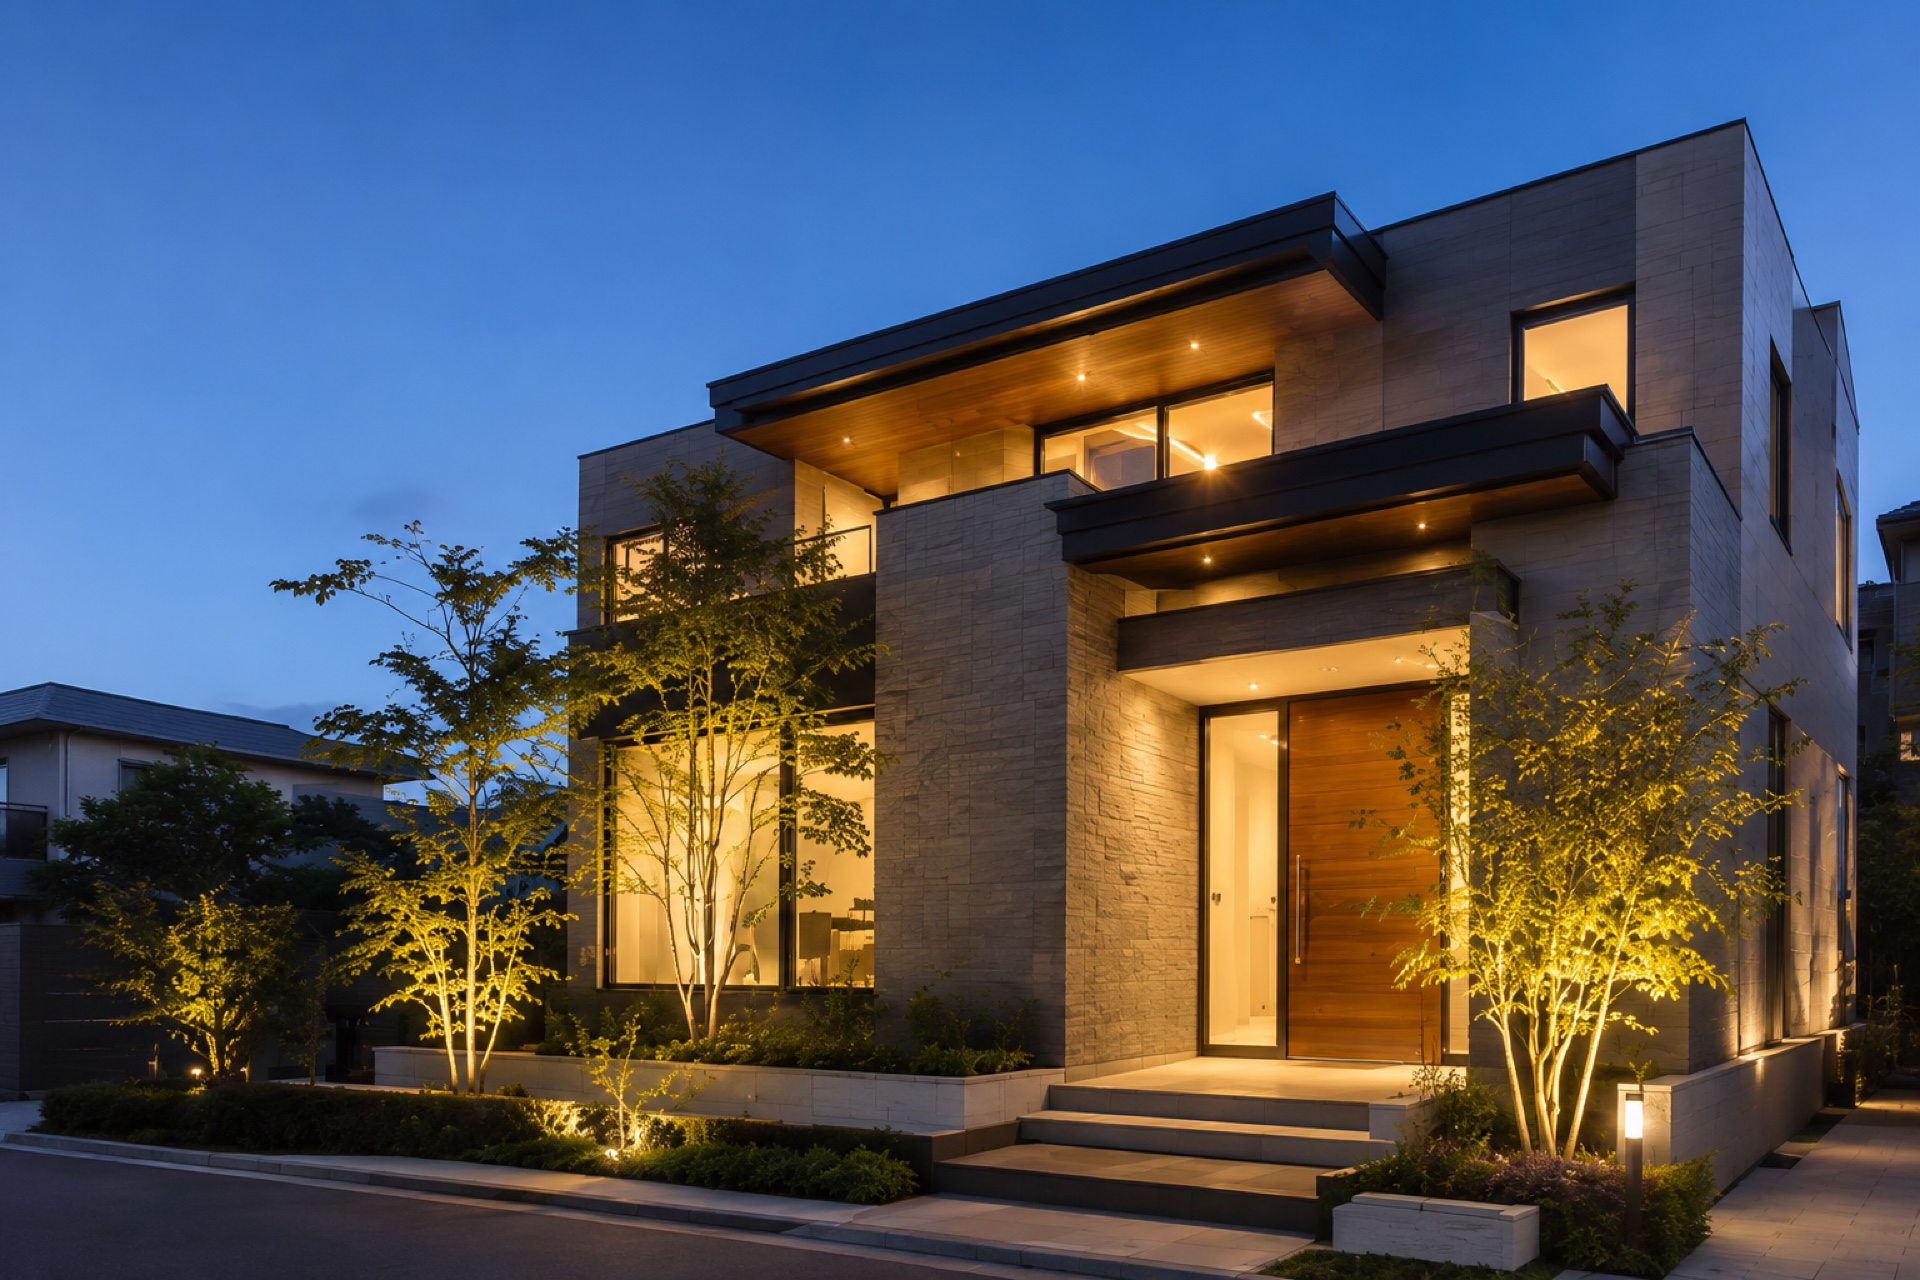
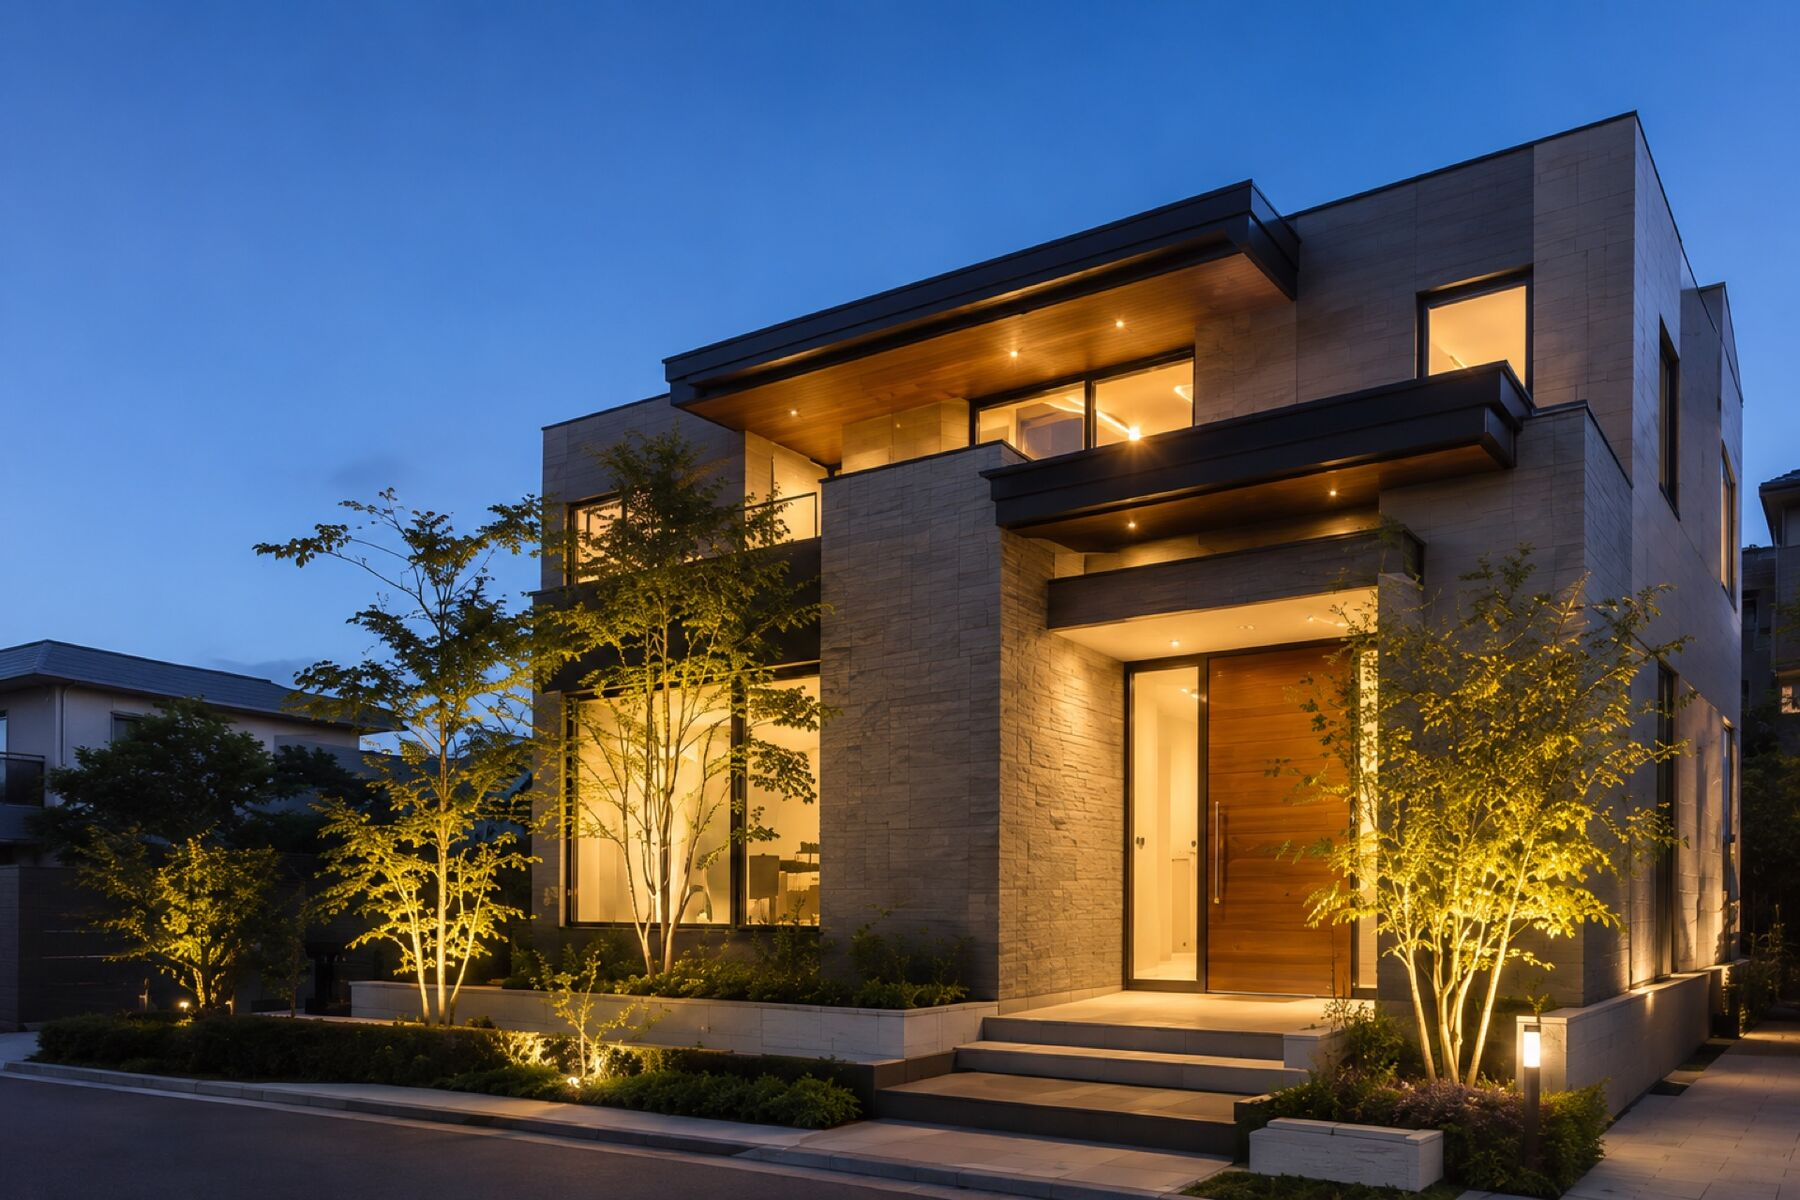
パフォーマンス最適化：Google Fonts(CJK)を表示文字だけにサブセット化＋画像をWebP化・再圧縮
- Google FontsのCSSがレンダーブロッキングでFCP/LCPを約20秒まで悪化させていた実測(Lighthouse)を確認。
  Shippori Mincho+Zen Kaku Gothic Newは無指定だと865個の@font-face(圧縮前805KB)を返す罠があり、
  &text=でこのページの表示文字だけに絞って68KB・10個まで削減。
- hero/svc/wk画像をpicture+WebP化、JPEGフォールバックも品質80で再圧縮（画像だけで計2.2MB→1MB弱）。

Changed region(s): [[0.2489, 0.7092, 0.28, 0.74]]

diff --git a/index.html b/index.html
@@ -36,7 +36,11 @@
 <meta name="twitter:image" content="https://promoters.co.jp/img/og.jpg">
 <link rel="preconnect" href="https://fonts.googleapis.com">
 <link rel="preconnect" href="https://fonts.gstatic.com" crossorigin>
-<link href="https://fonts.googleapis.com/css2?family=Shippori+Mincho:wght@500;600;700&family=Zen+Kaku+Gothic+New:wght@300;400;500;700&family=Cormorant+Garamond:wght@300;400;500&display=swap" rel="stylesheet">
+<!-- パフォーマンス：Google FontsのCJK(Shippori Mincho/Zen Kaku Gothic New)は無指定だと865個の@font-face(圧縮前805KB)を返しレンダーブロッキングでFCP/LCPが約20秒に悪化する実測あり。
+     &text=でこのページの表示文字だけに絞り68KB・10個の@font-faceまで削減(2026/7/27実測)。
+     本文に新しい日本語テキストを追加したら再生成すること（旧文字だけの絞り込みのままだと新しい文字だけシステムフォールバックフォントで表示される＝致命的ではないが見た目が揃わない）。
+     再生成手順：ブラウザでページを開き `document.body.innerText + [...document.querySelectorAll('[placeholder],[alt],option')].map(e=>e.getAttribute('placeholder')||e.getAttribute('alt')||e.textContent).join('')` で全表示文字を取得→重複除去→このURLの&text=以降をURLエンコードして差し替え -->
+<link href="https://fonts.googleapis.com/css2?family=Shippori+Mincho:wght@500;600;700&family=Zen+Kaku+Gothic+New:wght@300;400;500;700&family=Cormorant+Garamond:wght@300;400;500&display=swap&text=%25%26%2C-.%2F012345789%3A%40ABCDEFGHIJKLMNOPQRSTUVWXYZacdefghijklmnoprstuvxyz%C2%A9%C2%AE%C2%B7%C3%97%E2%80%93%E2%80%94%E2%80%BB%E2%86%92%E2%86%93%E3%80%81%E3%80%82%E3%80%85%E3%80%87%E3%80%8C%E3%80%8D%E3%80%92%E3%81%82%E3%81%84%E3%81%86%E3%81%88%E3%81%8A%E3%81%8B%E3%81%8C%E3%81%8D%E3%81%8E%E3%81%8F%E3%81%91%E3%81%92%E3%81%93%E3%81%94%E3%81%95%E3%81%97%E3%81%98%E3%81%99%E3%81%9A%E3%81%9B%E3%81%9C%E3%81%9D%E3%81%9E%E3%81%9F%E3%81%A0%E3%81%A1%E3%81%A3%E3%81%A4%E3%81%A5%E3%81%A6%E3%81%A7%E3%81%A8%E3%81%A9%E3%81%AA%E3%81%AB%E3%81%AD%E3%81%AE%E3%81%AF%E3%81%B0%E3%81%B3%E3%81%B5%E3%81%B6%E3%81%B8%E3%81%B9%E3%81%BE%E3%81%BF%E3%82%80%E3%82%81%E3%82%82%E3%82%84%E3%82%86%E3%82%88%E3%82%89%E3%82%8A%E3%82%8B%E3%82%8C%E3%82%8F%E3%82%92%E3%82%93%E3%82%A1%E3%82%A2%E3%82%A3%E3%82%A4%E3%82%A6%E3%82%A7%E3%82%A8%E3%82%A9%E3%82%AA%E3%82%AD%E3%82%AE%E3%82%AF%E3%82%B0%E3%82%B1%E3%82%B3%E3%82%B5%E3%82%B7%E3%82%B8%E3%82%B9%E3%82%BA%E3%82%BB%E3%82%BD%E3%82%BF%E3%83%80%E3%83%81%E3%83%83%E3%83%86%E3%83%87%E3%83%88%E3%83%89%E3%83%8A%E3%83%8B%E3%83%8D%E3%83%8F%E3%83%91%E3%83%93%E3%83%95%E3%83%96%E3%83%97%E3%83%99%E3%83%9C%E3%83%9D%E3%83%9E%E3%83%9F%E3%83%A0%E3%83%A1%E3%83%A2%E3%83%A3%E3%83%A5%E3%83%A6%E3%83%A9%E3%83%AA%E3%83%AB%E3%83%AC%E3%83%AD%E3%83%B3%E3%83%BB%E3%83%BC%E4%B8%80%E4%B8%81%E4%B8%87%E4%B8%89%E4%B8%8A%E4%B8%8D%E4%B8%8E%E4%B8%96%E4%B8%AD%E4%B8%BB%E4%BA%88%E4%BA%8B%E4%BA%95%E4%BA%AC%E4%BA%BA%E4%BB%8A%E4%BB%8B%E4%BB%95%E4%BB%96%E4%BB%98%E4%BB%A3%E4%BB%A5%E4%BB%B2%E4%BB%B6%E4%BB%BB%E4%BC%81%E4%BC%91%E4%BC%9A%E4%BC%B4%E4%BD%8E%E4%BD%8F%E4%BD%93%E4%BD%99%E4%BD%BF%E4%BE%8B%E4%BE%9B%E4%BE%9D%E4%BE%A1%E4%BF%82%E4%BF%9D%E4%BF%A1%E5%80%8B%E5%80%A4%E5%81%A5%E5%81%B4%E5%82%99%E5%82%B5%E5%83%8D%E5%84%84%E5%84%AA%E5%85%83%E5%85%88%E5%85%89%E5%85%A5%E5%85%A8%E5%85%B1%E5%85%BC%E5%86%85%E5%86%86%E5%86%8D%E5%86%99%E5%87%BA%E5%88%86%E5%88%87%E5%88%A4%E5%88%A9%E5%88%B6%E5%89%8D%E5%89%A3%E5%89%B5%E5%8A%9B%E5%8A%A0%E5%8A%A9%E5%8A%AA%E5%8A%B9%E5%8B%95%E5%8B%99%E5%8B%9D%E5%8B%9F%E5%8B%A2%E5%8C%96%E5%8C%A0%E5%8C%BA%E5%8C%BB%E5%8D%94%E5%8D%97%E5%8D%B4%E5%8E%B3%E5%8F%82%E5%8F%8E%E5%8F%96%E5%8F%97%E5%8F%A3%E5%8F%A4%E5%8F%AF%E5%8F%B7%E5%90%88%E5%90%8C%E5%90%8D%E5%90%91%E5%90%AB%E5%91%8A%E5%91%B3%E5%91%BD%E5%93%A1%E5%95%86%E5%95%8F%E5%96%84%E5%96%B6%E5%9B%9E%E5%9B%B0%E5%9B%B2%E5%9C%9F%E5%9C%A8%E5%9C%B0%E5%9E%8B%E5%9F%8E%E5%9F%9F%E5%9F%BA%E5%A0%B1%E5%A0%B4%E5%A2%83%E5%A3%B2%E5%A4%89%E5%A4%8F%E5%A4%95%E5%A4%96%E5%A4%9A%E5%A4%A7%E5%A4%A9%E5%A4%AA%E5%A7%8B%E5%A7%BF%E5%AD%90%E5%AD%98%E5%AD%A3%E5%AD%A6%E5%AE%85%E5%AE%88%E5%AE%8C%E5%AE%9A%E5%AE%9F%E5%AE%A2%E5%AE%A4%E5%AE%B6%E5%AE%B9%E5%AF%86%E5%AF%BE%E5%B0%82%E5%B0%8F%E5%B1%85%E5%B1%A4%E5%B1%B1%E5%B2%B8%E5%B8%82%E5%B8%B8%E5%B9%85%E5%B9%B4%E5%B9%B8%E5%BA%83%E5%BA%A6%E5%BA%A7%E5%BA%AD%E5%BB%BA%E5%BC%8F%E5%BC%94%E5%BC%95%E5%BD%93%E5%BD%A2%E5%BD%B9%E5%BE%85%E5%BE%8C%E5%BE%92%E5%BE%97%E5%BF%85%E5%BF%9C%E5%BF%B5%E6%80%A5%E6%80%A7%E6%83%85%E6%83%B3%E6%84%8F%E6%84%9B%E6%84%9F%E6%85%AE%E6%85%B6%E6%86%A7%E6%88%90%E6%88%A6%E6%88%B8%E6%89%80%E6%89%8B%E6%89%B1%E6%89%BF%E6%8A%95%E6%8A%9C%E6%8A%9E%E6%8B%85%E6%8B%A0%E6%8C%81%E6%8C%91%E6%8D%89%E6%8E%83%E6%8E%9B%E6%8E%A1%E6%8E%A5%E6%8E%B2%E6%8F%90%E6%8F%B4%E6%90%BA%E6%94%AF%E6%94%BB%E6%95%B0%E6%95%B4%E6%96%99%E6%96%AD%E6%96%B0%E6%96%B9%E6%97%8F%E6%97%A5%E6%98%8E%E6%99%82%E6%9A%87%E6%9A%AE%E6%9C%80%E6%9C%88%E6%9C%89%E6%9C%9F%E6%9C%A8%E6%9C%AA%E6%9C%AB%E6%9C%AC%E6%9D%90%E6%9D%A5%E6%9D%B1%E6%9E%97%E6%9E%9C%E6%A0%AA%E6%A0%BC%E6%A1%88%E6%A3%9F%E6%A4%9C%E6%A5%AD%E6%A5%B5%E6%A6%82%E6%A7%8B%E6%A7%98%E6%A8%A1%E6%A8%A9%E6%A9%9F%E6%AC%A1%E6%AC%B2%E6%AD%93%E6%AD%A3%E6%AD%A9%E6%AD%B3%E6%AE%B5%E6%B0%97%E6%B0%B4%E6%B0%B8%E6%B1%BA%E6%B2%BB%E6%B3%81%E6%B3%95%E6%B3%A8%E6%B4%BB%E6%B5%81%E6%B5%A6%E6%B5%B7%E6%B6%AF%E6%B8%85%E6%B8%88%E6%B8%A1%E6%B8%AC%E6%B8%AF%E6%BA%96%E7%82%B9%E7%84%A1%E7%84%B6%E7%89%A9%E7%8B%AC%E7%8C%AE%E7%8F%BE%E7%90%86%E7%92%B0%E7%94%9F%E7%94%A3%E7%94%A8%E7%94%B0%E7%94%B1%E7%94%B3%E7%94%BA%E7%94%BB%E7%95%8C%E7%95%A5%E7%95%AA%E7%99%82%E7%99%BA%E7%9A%84%E7%9A%86%E7%9B%8A%E7%9B%AE%E7%9B%B4%E7%9B%B8%E7%9C%9F%E7%9D%80%E7%9F%AD%E7%A2%BA%E7%A4%BA%E7%A4%BE%E7%A5%9D%E7%A7%81%E7%A7%98%E7%A8%AE%E7%A8%BC%E7%A9%8D%E7%A9%BA%E7%AB%8B%E7%AB%AF%E7%AC%AC%E7%AD%89%E7%AE%97%E7%AE%A1%E7%AF%84%E7%AF%89%E7%B4%9A%E7%B4%B9%E7%B5%84%E7%B5%8C%E7%B5%90%E7%B5%A1%E7%B5%A6%E7%B6%99%E7%B6%9A%E7%B6%BF%E7%B7%91%E7%B7%92%E7%B7%9A%E7%B7%A0%E7%B8%BE%E7%B9%8B%E7%BE%8E%E7%BE%A4%E7%BF%8C%E8%80%83%E8%80%85%E8%82%B2%E8%83%BD%E8%84%88%E8%87%AA%E8%88%88%E8%89%AF%E8%8A%9D%E8%90%BD%E8%9E%8D%E8%A1%8C%E8%A1%97%E8%A1%A8%E8%A3%9C%E8%A4%87%E8%A6%81%E8%A6%8B%E8%A6%8F%E8%A6%96%E8%A6%B3%E8%A7%A3%E8%A8%80%E8%A8%88%E8%A8%8E%E8%A8%98%E8%A8%AA%E8%A8%AD%E8%A8%BC%E8%A9%95%E8%A9%B1%E8%AA%8D%E8%AA%BF%E8%AB%87%E8%AB%8B%E8%AD%98%E8%AD%A6%E8%AD%B7%E8%B1%8A%E8%B2%A0%E8%B2%A2%E8%B2%AB%E8%B2%B7%E8%B2%B8%E8%B3%83%E8%B3%87%E8%B3%AA%E8%B5%B0%E8%B6%85%E8%BA%AB%E8%BB%BD%E8%BE%BC%E8%BF%85%E8%BF%8E%E8%BF%91%E8%BF%B7%E8%BF%BD%E9%80%81%E9%80%94%E9%80%9A%E9%80%9F%E9%80%A0%E9%80%A3%E9%80%B1%E9%81%8B%E9%81%A9%E9%81%B8%E9%82%84%E9%83%8E%E9%83%A8%E9%83%BD%E9%85%8D%E9%87%8D%E9%87%8E%E9%87%91%E9%87%9D%E9%8A%80%E9%95%B7%E9%96%80%E9%96%8B%E9%96%93%E9%96%A2%E9%99%90%E9%99%A4%E9%99%BD%E9%9A%8E%E9%9B%86%E9%9B%BB%E9%9D%92%E9%9D%A9%E9%A0%83%E9%A0%88%E9%A0%98%E9%A0%AD%E9%A0%BC%E9%A1%9E%E9%A1%A7%E9%A7%85%E9%A8%93%E9%AB%98%E9%AD%85%E9%BD%A2%EF%BC%88%EF%BC%89%EF%BC%8B%EF%BC%8F%EF%BC%9A%EF%BC%9D%EF%BC%9F" rel="stylesheet">
 <script type="application/ld+json">
 {
   "@context": "https://schema.org",
@@ -722,7 +726,7 @@ body{word-break:auto-phrase;line-break:strict;overflow-wrap:normal}
       </div>
     </div>
     <figure class="hl-figure rvup d3">
-      <div class="hl-img"><img src="img/hero_house.jpg" alt="Promotersが手がける住まい"></div>
+      <div class="hl-img"><picture><source type="image/webp" srcset="img/hero_house.webp"><img src="img/hero_house.jpg" alt="Promotersが手がける住まい"></picture></div>
       <figcaption>Promoters Architecture — Tokyo</figcaption>
     </figure>
   </div>
@@ -799,7 +803,7 @@ body{word-break:auto-phrase;line-break:strict;overflow-wrap:normal}
     <p class="sec-lead rv">企画力と実行力に加え、設計・建築、権利関係の調整、資産形成コンサルティングまで。幅広い事業領域とユニークな発想で、トップレベルの不動産コンサルティングを提供します。</p>
     <div class="svc-rows">
       <article class="svc-row rv">
-        <div class="svc-img"><span class="no">01</span><div class="ph"><img src="img/svc_dev.jpg" alt="夕暮れの東京の高層ビル群" loading="lazy"></div></div>
+        <div class="svc-img"><span class="no">01</span><div class="ph"><picture><source type="image/webp" srcset="img/svc_dev.webp"><img src="img/svc_dev.jpg" alt="夕暮れの東京の高層ビル群" loading="lazy"></picture></div></div>
         <div class="svc-txt">
           <span class="en">Development</span>
           <h3>不動産開発事業</h3>
@@ -808,7 +812,7 @@ body{word-break:auto-phrase;line-break:strict;overflow-wrap:normal}
         </div>
       </article>
       <article class="svc-row rev rv">
-        <div class="svc-img"><span class="no">02</span><div class="ph"><img src="img/svc_reno.jpg" alt="再生を待つ味わいのある建物" loading="lazy"></div></div>
+        <div class="svc-img"><span class="no">02</span><div class="ph"><picture><source type="image/webp" srcset="img/svc_reno.webp"><img src="img/svc_reno.jpg" alt="再生を待つ味わいのある建物" loading="lazy"></picture></div></div>
         <div class="svc-txt">
           <span class="en">Renovation &amp; Revitalization</span>
           <h3>不動産再生事業</h3>
@@ -817,7 +821,7 @@ body{word-break:auto-phrase;line-break:strict;overflow-wrap:normal}
         </div>
       </article>
       <article class="svc-row rv">
-        <div class="svc-img"><span class="no">03</span><div class="ph"><img src="img/svc_mng.jpg" alt="緑のある集合住宅の中庭" loading="lazy"></div></div>
+        <div class="svc-img"><span class="no">03</span><div class="ph"><picture><source type="image/webp" srcset="img/svc_mng.webp"><img src="img/svc_mng.jpg" alt="緑のある集合住宅の中庭" loading="lazy"></picture></div></div>
         <div class="svc-txt">
           <span class="en">Property Management</span>
           <h3>賃貸管理事業</h3>
@@ -840,22 +844,22 @@ body{word-break:auto-phrase;line-break:strict;overflow-wrap:normal}
     <p class="sec-lead rv">住まいが次の世代にも引き継がれ、あたたかく愛され続ける環境であること。環境に配慮した自然エネルギーで経済的であること。企業理念を体現するブランドが「エコロ」です。</p>
     <div class="works-mag">
       <figure class="wk wk-a rv">
-        <div class="ph"><img src="img/wk_house.jpg" alt="木格子の意匠が美しいモダンな戸建ての外観" loading="lazy"></div>
+        <div class="ph"><picture><source type="image/webp" srcset="img/wk_house.webp"><img src="img/wk_house.jpg" alt="木格子の意匠が美しいモダンな戸建ての外観" loading="lazy"></picture></div>
         <figcaption><h3>ECOLO HOUSE</h3><span class="cat">新築個人住宅</span></figcaption>
         <p class="desc">太陽光発電システム完備・オール電化の環境にやさしい新築戸建て。補助金申請から売電による資産形成まで幅広くサポート。</p>
       </figure>
       <figure class="wk wk-b rv">
-        <div class="ph"><img src="img/wk_cube.jpg" alt="コンクリートのキューブ型集合住宅" loading="lazy"></div>
+        <div class="ph"><picture><source type="image/webp" srcset="img/wk_cube.webp"><img src="img/wk_cube.jpg" alt="コンクリートのキューブ型集合住宅" loading="lazy"></picture></div>
         <figcaption><h3>ECOLO CUBE</h3><span class="cat">RC造 共同住宅</span></figcaption>
         <p class="desc">スタイリッシュで高級感あふれるRC共同住宅。投資用一棟アパートメントとして個人オーナー様からプロの事業主様まで支持。</p>
       </figure>
       <figure class="wk wk-c rv">
-        <div class="ph"><img src="img/wk_room.jpg" alt="陽の入る木造住宅の室内" loading="lazy"></div>
+        <div class="ph"><picture><source type="image/webp" srcset="img/wk_room.webp"><img src="img/wk_room.jpg" alt="陽の入る木造住宅の室内" loading="lazy"></picture></div>
         <figcaption><h3>ECOLO ROOM</h3><span class="cat">木造 共同住宅・シェアハウス</span></figcaption>
         <p class="desc">太陽光完備・オール電化の木造共同住宅。シェアハウスも多数手掛け、共同生活を通じたあたたかい環境づくりに注力。</p>
       </figure>
       <figure class="wk wk-d rv">
-        <div class="ph"><img src="img/wk_town.jpg" alt="緑豊かで落ち着いた住宅街の通り" loading="lazy"></div>
+        <div class="ph"><picture><source type="image/webp" srcset="img/wk_town.webp"><img src="img/wk_town.jpg" alt="緑豊かで落ち着いた住宅街の通り" loading="lazy"></picture></div>
         <figcaption><h3>ECOLO TOWN</h3><span class="cat">高齢者向け住宅・街づくり</span></figcaption>
         <p class="desc">自治体と連携した最先端の街づくり。サービス付き高齢者向け住宅の設計、訪問医療・介護との連携で、住みやすく愛あふれる街へ。</p>
       </figure>
